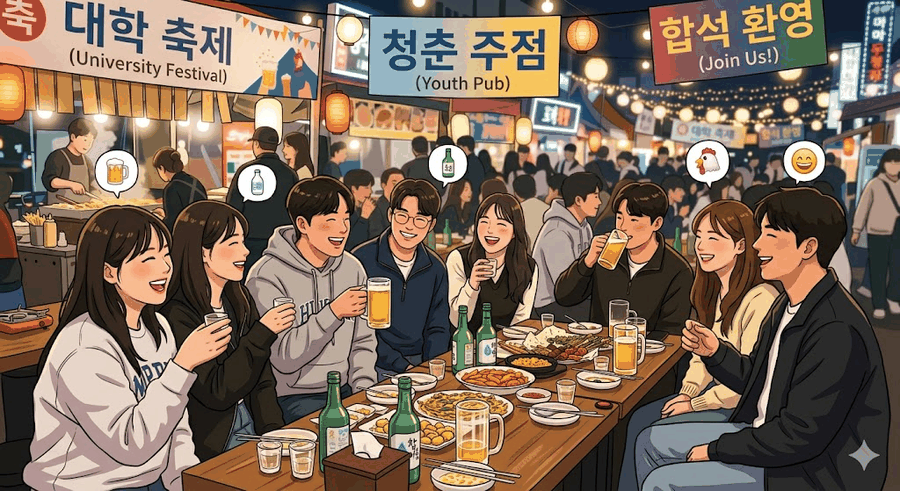
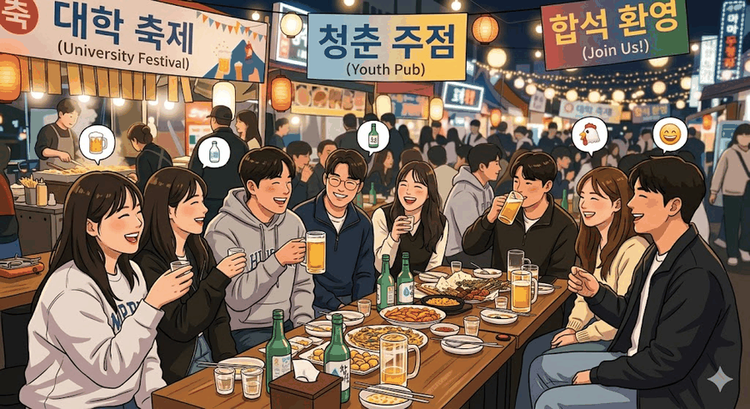
Add corkage service fee menu item
- Add 콜키지 (10,000원) to 'etc' category in both menu templates
- Display item as text (26px, same as premium wine style) instead of image
- Add subtitle "콜키지 비용(와인만 가능)" below item name in both templates
- Add migration to insert corkage item in existing installations
- Optimize plus.png and premium.png images

Changed region(s): [[0.1533, 0.7628, 0.184, 0.7922], [0.1227, 0.1174, 0.1533, 0.1467]]

diff --git a/templates/customer_menu.html b/templates/customer_menu.html
@@ -423,10 +423,17 @@ window.addEventListener('error', function(e){
             {% endif %}
             <div class="card-img-wrap">
                 {% if menu.stock <= 0 %}<div class="sold-stamp">Sold out</div>{% endif %}
+                {% if '콜키지' in menu.name %}
+                <div style="font-family:'Noto Serif KR',serif;font-size:26px;font-weight:600;color:var(--wine-deep);text-align:center;line-height:1.7;padding:0 12px;">콜키지</div>
+                {% else %}
                 <img src="/static/{{ menu.img }}" alt="{{ menu.name }}">
+                {% endif %}
             </div>
             <div class="card-body">
                 <div class="card-name">{{ menu.name }}</div>
+                {% if '콜키지' in menu.name %}
+                <div style="font-size:11px;color:#888;text-align:center;margin-top:2px;">콜키지 비용(와인만 가능)</div>
+                {% endif %}
                 <div class="card-rule"></div>
                 <div class="card-price">{{ menu.price | format_price }}<span class="krw">원</span></div>
             </div>

diff --git a/templates/server_order.html b/templates/server_order.html
@@ -589,12 +589,17 @@ window.addEventListener('error', function(e){
                 {% if menu.stock <= 0 %}<div class="sold-overlay">Sold out</div>{% endif %}
                 {% if '프리미엄' in menu.name %}
                 <div style="font-family:'Noto Serif KR',serif;font-size:26px;font-weight:600;color:var(--wine-deep);text-align:center;line-height:1.7;padding:0 12px;">운영팀 문의<br>꼭 해주세요</div>
+                {% elif '콜키지' in menu.name %}
+                <div style="font-family:'Noto Serif KR',serif;font-size:26px;font-weight:600;color:var(--wine-deep);text-align:center;line-height:1.7;padding:0 12px;">콜키지</div>
                 {% else %}
                 <img src="/static/{{ menu.img }}" style="{% if menu.stock <= 0 %}filter: grayscale(1);{% endif %}">
                 {% endif %}
             </div>
             <div class="card-body">
                 <div class="card-name">{{ menu.name }}</div>
+                {% if '콜키지' in menu.name %}
+                <div style="font-size:11px;color:#888;text-align:center;margin-top:2px;">콜키지 비용(와인만 가능)</div>
+                {% endif %}
                 <div class="card-rule"></div>
                 <div class="card-price">{{ menu.price | format_price }}<span class="krw">원</span></div>
             </div>

diff --git a/db.py b/db.py
@@ -28,6 +28,7 @@ INITIAL_MENU = [
     {"id": 10, "display_order": 10, "category": "food",   "name": "치즈케이크", "price": 8000,  "is_alcohol": False, "stock": 30,  "img": "cheeze.png",   "is_best": False},
     {"id": 12, "display_order": 12, "category": "etc",    "name": "물", "price": 1000,  "is_alcohol": False, "stock": 100, "img": "water.png",    "is_best": False},
     {"id": 13, "display_order": 13, "category": "etc",    "name": "프리미엄 와인(판매 이전 운영팀 문의)", "price": 100000, "is_alcohol": True,  "stock": 6,   "img": "premium.png",  "is_best": False},
+    {"id": 14, "display_order": 14, "category": "etc",    "name": "콜키지",                               "price": 10000,  "is_alcohol": False, "stock": 100, "img": "corkage.png",  "is_best": False},
 ]
 
 LEGACY_IMAGE_NAME_UPDATES = {
@@ -180,6 +181,14 @@ def init_db() -> None:
         )
         # Remove 합석 비용 from existing installations
         conn.execute("DELETE FROM menu_items WHERE name = '합석 비용'")
+        # Add 콜키지 to existing installations
+        conn.execute(
+            """
+            INSERT OR IGNORE INTO menu_items
+            (id, category, name, price, is_alcohol, stock, img, is_best, display_order)
+            VALUES (14, 'etc', '콜키지', 10000, 0, 100, 'corkage.png', 0, 14)
+            """
+        )
         # Update pcs counts
         conn.execute("UPDATE menu_items SET name = '해시브라운(4pcs)' WHERE name = '해시브라운(3pcs)'")
         conn.execute("UPDATE menu_items SET name = '오레오베이컨말이(5pcs)' WHERE name = '오레오베이컨말이(6pcs)'")